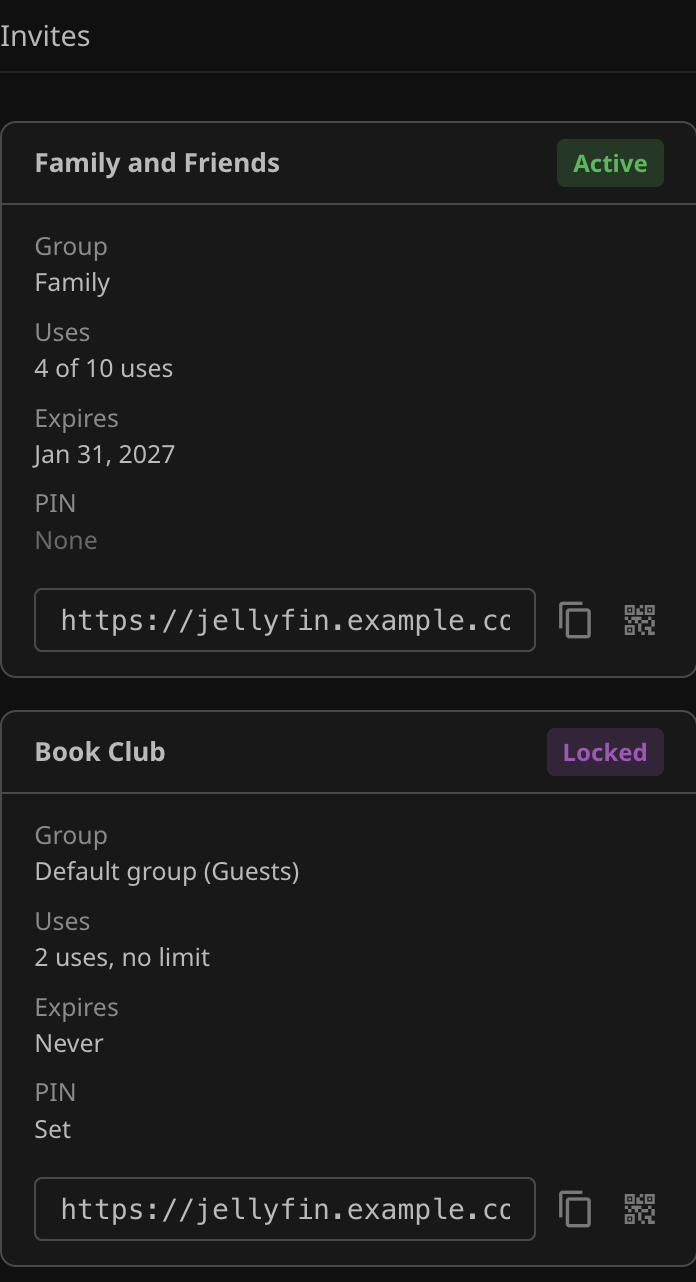
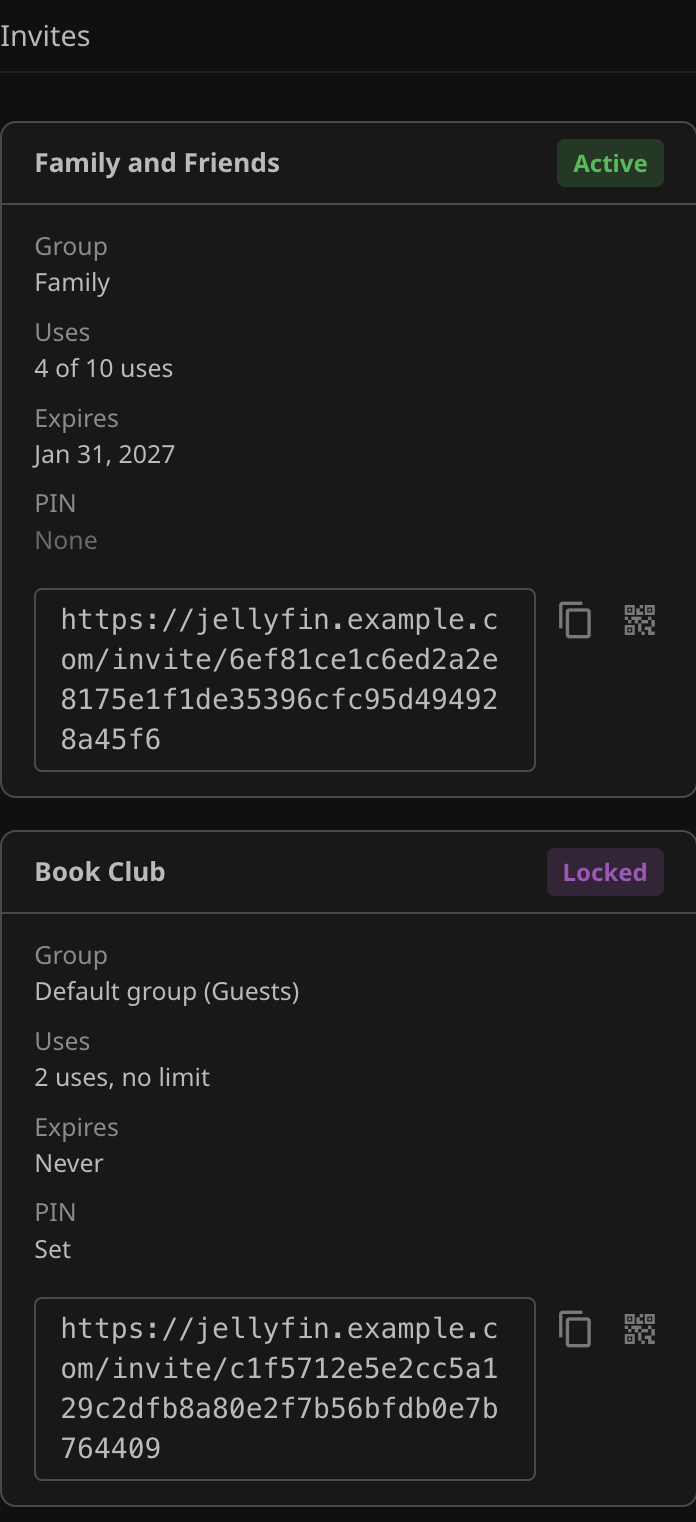
Move to JPKribs.Jellyfin.Base 2026.11.20 and give Duplicate to the editor's actions
The card Repeater's layout class no longer collides with Jellyfin's
.card rule, so the Clients list stopgap is gone. The invite editor's
Duplicate button comes from openEditorDialog's actions in place of a
hand placed footer button. The invite cards' links wrap in full, so the
Invite List shots are retaken.

diff --git a/Jellyfin.Plugin.UserManagement/Configuration/usermanagement_invites.js b/Jellyfin.Plugin.UserManagement/Configuration/usermanagement_invites.js
@@ -545,7 +545,7 @@ export default function (view) {
         expiryInput.value = expiryDate(inv);
         enabledInput.checked = !!inv.Enabled;
 
-        var dialog = openEditorDialog({
+        openEditorDialog({
             title: inv.Label || 'Untitled invite',
             body: body,
             className: 'pluginConfigurationPage',
@@ -556,22 +556,15 @@ export default function (view) {
             serialize: function () { return expiryInput.value + '|' + enabledInput.checked; },
             onDone: function () { return saveInvite(inv, expiryInput.value, enabledInput.checked); },
             onRemove: function (close) { deleteInvite(inv.Id).then(function (ok) { if (ok) close(); }); },
+            actions: [{
+                text: 'Duplicate',
+                onClick: function (handle) {
+                    handle.markClean();
+                    handle.close();
+                    duplicateInvite(inv.Id);
+                }
+            }],
             onClose: function () { link.destroy(); details.destroy(); }
-        });
-
-        // Base's editor dialog has no option for an extra footer action, so Duplicate joins its button row by hand.
-        var footer = dialog.element.querySelector('.base-modal-button-row');
-        var duplicate = document.createElement('button');
-        duplicate.type = 'button';
-        duplicate.setAttribute('is', 'emby-button');
-        duplicate.className = 'raised base-modal-button base-button secondary';
-        duplicate.textContent = 'Duplicate';
-        var cancel = [].find.call(footer.querySelectorAll('button'), function (b) { return b.textContent.trim() === 'Cancel'; });
-        footer.insertBefore(duplicate, cancel || null);
-        duplicate.addEventListener('click', function () {
-            dialog.markClean();
-            dialog.close();
-            duplicateInvite(inv.Id);
         });
     }
 

diff --git a/Jellyfin.Plugin.UserManagement/Configuration/usermanagement_shared.css b/Jellyfin.Plugin.UserManagement/Configuration/usermanagement_shared.css
@@ -88,14 +88,6 @@
     margin-bottom: 0 !important;
 }
 
-/* Stopgap for a Base defect. A card Repeater carries a bare "card" class, and Jellyfin's .card rule gives it */
-/* contain and a pointer cursor, which traps the Clients Chip Select's fixed list inside the card, off screen. */
-/* Delete this rule when Base names the class base-repeater-card. */
-.pluginConfigurationPage .base-repeater.card {
-    contain: none;
-    cursor: auto;
-}
-
 /* um-setting-check */
 /* The checkbox that leads a setting row, a field tall so it lines up with the pills beside it. */
 /* Example: <div class="um-setting-check"><label class="emby-checkbox-label">...</label></div> */

diff --git a/skills/style.md b/skills/style.md
@@ -500,9 +500,7 @@ Every invite on the **Invites** tab is one card, built the same way.
 
 ## Hand Built Pieces
 
-* The invite editor's **Duplicate** button is added to the dialog's footer row by hand, because `openEditorDialog` has no option for an extra footer action. Replace it with Base's footer actions option once Base has one, and delete the hand step.
-
-Nothing on the dashboard tabs is built by hand. The plugin CSS holds only spacing on Base tokens: `um-intro` under a page intro, `um-setting`, `um-setting-check`, `um-setting-label`, and `um-setting-body` for the [group setting rows](#group-setting-rows), and `um-invite-head`, `um-invite-title`, `um-invite-status`, and `um-invite-body` for the [invite cards](#invite-cards). It also holds one marked stopgap for the card Repeater's bare `card` class, which Jellyfin's `.card` rule gives `contain`, so the Clients Chip Select's list opens off screen. Delete it when Base names the class `base-repeater-card`.
+Nothing on the dashboard tabs is built by hand. The plugin CSS holds only spacing on Base tokens: `um-intro` under a page intro, `um-setting`, `um-setting-check`, `um-setting-label`, and `um-setting-body` for the [group setting rows](#group-setting-rows), and `um-invite-head`, `um-invite-title`, `um-invite-status`, and `um-invite-body` for the [invite cards](#invite-cards).
 
 The signup page is the content of Base's status card and uses only the card's own classes: `base-status-error` for a refused signup, and `base-btn-stack` with `base-btn base-btn-secondary` for the resource links.
 
